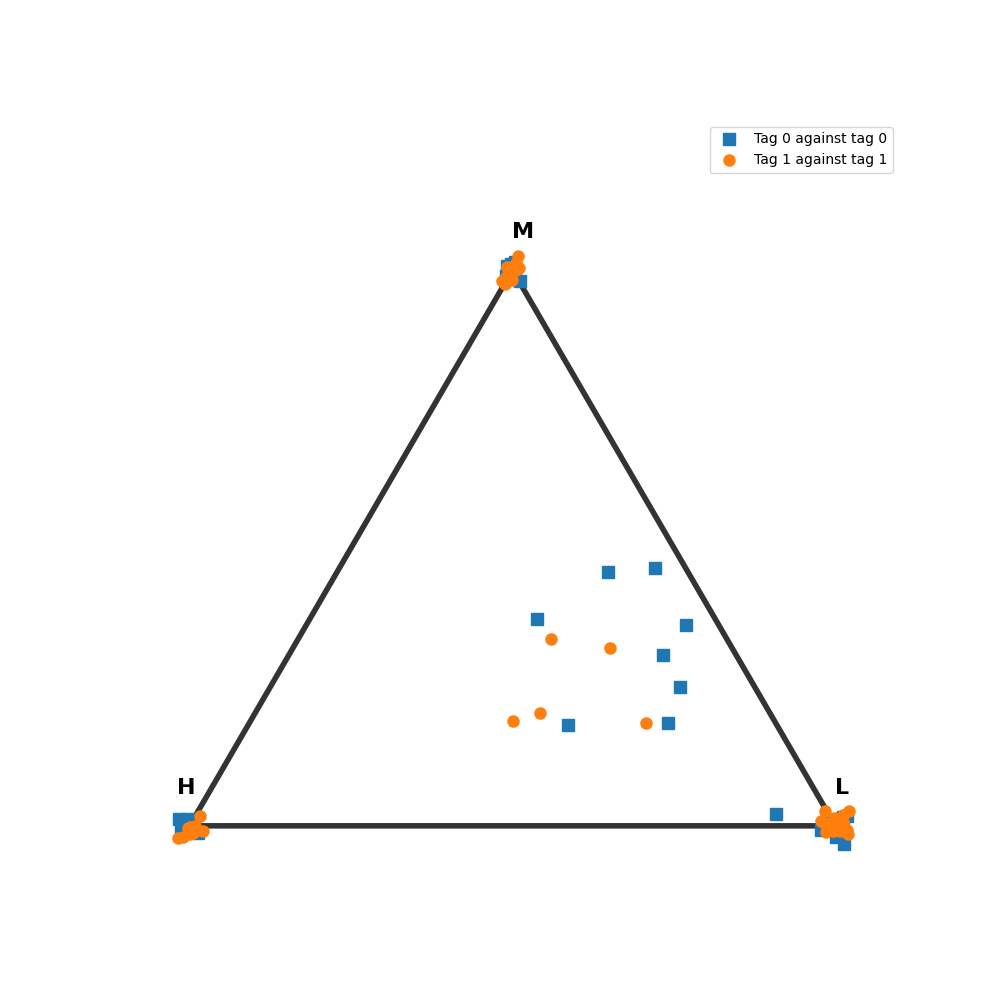
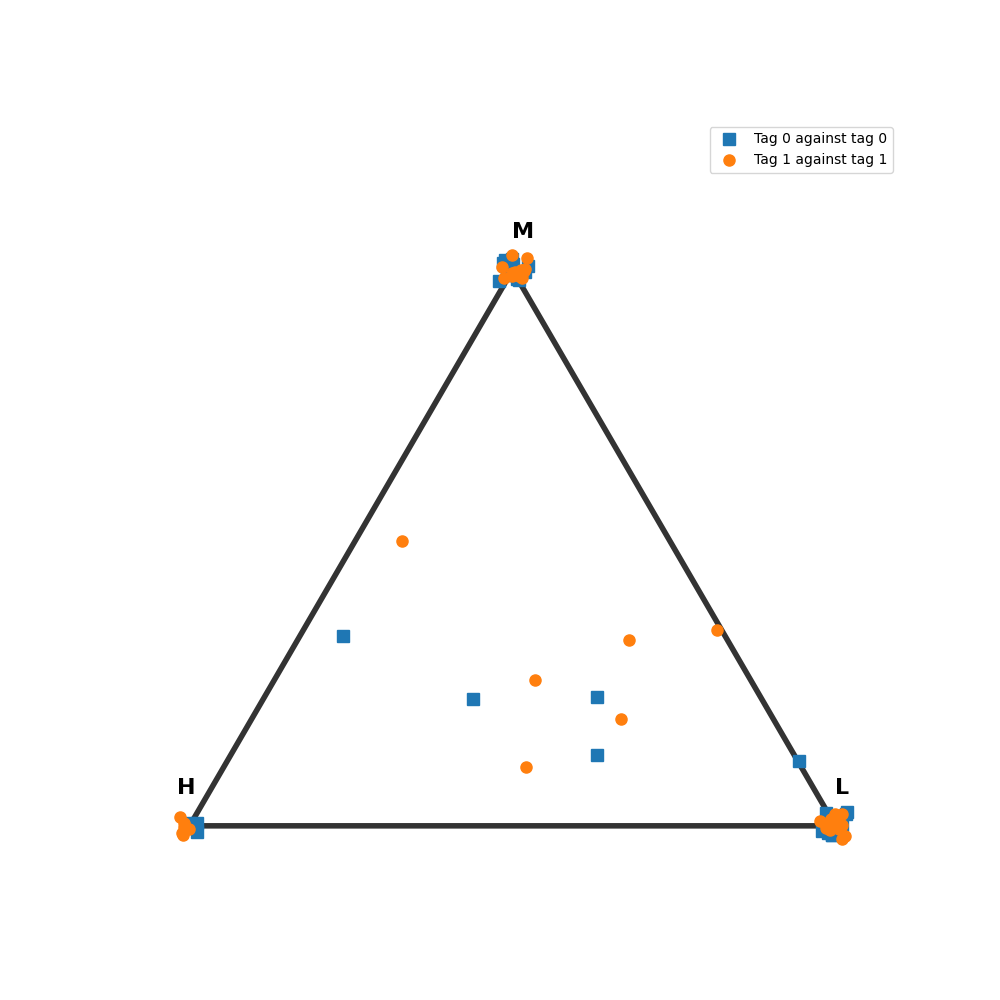
Merge branch 'main' of https://github.com/alemao161/ptuxiopote

diff --git a/0_run_Figures1-2.py b/0_run_Figures1-2.py
@@ -12,60 +12,38 @@ import networkx as nx
 ########################
 
 
-# Figure 1a (upper left)
-#n = 11
-#beta = 0.3
-#gamma = 0.1
-#N_tags = 1
-#J0 = [ 4, 4, 4 ]
-#N_epochs = 2000
-#num_runs = 1
-#lattice = "lattice_von_neumann"
-#node_size = 100
-
-# Figure 1b (upper right)
-#n = 11
-#beta = 1.0
-#gamma = 0.1
-#N_tags = 1
-#J0 = [ 4, 4, 4 ]
-#N_epochs = 2000
-#num_runs = 1
-#lattice = "lattice_von_neumann"
-#node_size = 100
-
-# Figure 1c (lower left)
-#n = 11
-#beta = 2.0
-#gamma = 0.1
-#N_tags = 1
-#J0 = [ 4, 1, 4 ]
-#N_epochs = 2000
-#num_runs = 1
-#lattice = "lattice_von_neumann"
-#node_size = 100
-
-# Figure 1d (lower right)
-#n = 11
-#beta = 2.0
-#gamma = 0.1
-#N_tags = 1
-#J0 = [ 4, 4, 4 ]
-#N_epochs = 2000
-#num_runs = 1
-#lattice = "lattice_von_neumann"
-#node_size = 100
-
-# Figure 2a (upper plot)
+# Figure 1
 n = 11
-beta = 2.0
+beta = 0.3
 gamma = 0.1
 N_tags = 1
-J0 = [ 1, 4, 1 ]
+J0 = [ 4, 1, 1 ]
 N_epochs = 2000
 num_runs = 1
 lattice = "lattice_von_neumann"
 node_size = 100
+
+# Figure 2
+#n = 11
+#beta = 1.0
+#gamma = 0.1
+#N_tags = 1
+#J0 = [ 1, 1, 4 ]
+#N_epochs = 2000
+#num_runs = 1
+#lattice = "lattice_von_neumann"
+#node_size = 100
+
+# Figure 3
+# n = 11
+# beta = 5.0
+# gamma = 0.1
+# N_tags = 1
+# J0 = [ 1, 1, 4 ]
+# N_epochs = 2000
+# num_runs = 1
+# lattice = "lattice_von_neumann"
+# node_size = 100
 
 G = gr.lattice_von_neumann(n)
 

diff --git a/4_run_formation_of_classes.py b/4_run_formation_of_classes.py
@@ -32,39 +32,16 @@ import networkx as nx
 # seed = 30
 
 n = 12
-beta = 1.2
+beta = 1.5
 gamma = 0.1
 N_tags = 2
-J0 = [ 4, 1, 1 ]
-# N_epochs    = 1000
-N_epochs = 500
+J0 = [ 1, 1, 4 ]
+N_epochs    = 1000
 num_runs = 4
 lattice = "lattice_von_neumann"
 node_size = 1000
 seed = 30
 
-# n = 12
-# beta = 1.5
-# gamma = 0.1
-# N_tags = 2
-# J0 = [ 4, 1, 4 ]
-# N_epochs    = 1000
-# # N_epochs = 2000
-# num_runs = 4
-# lattice = "lattice_von_neumann"
-# node_size = 1000
-# seed = 30
-
-# n           = 12
-# beta        = 1.0
-# gamma       = 0.1
-# N_tags      = 2
-# J0          = [ 4, 1, 4 ]
-# N_epochs    = 500
-# num_runs    = 10
-# lattice     = "lattice_von_neumann"
-# node_size   = 1000
-# seed        = 1
 
 G = gr.lattice_von_neumann(n)
 
@@ -75,9 +52,13 @@ game = bargain(G, beta=beta, gamma=gamma, J0=J0, folder=run_name, N_tags=N_tags,
 for k in range(num_runs):
     game.play(N_epochs=N_epochs)
     # game.plot_graph(node_size=node_size)
-    game.plot_statistics()
-    game.plot_simplex()
+    # game.plot_statistics()
+    # game.plot_simplex()
 
 game.plot_statistics()
+plt.pause(0.05)
 game.plot_simplex()
+plt.pause(0.05)
 game.plot_graph(node_size=node_size)
+plt.pause(0.05)
+

diff --git a/2_run_phase_beta.py b/2_run_phase_beta.py
@@ -8,7 +8,7 @@ import sys
 
 import pretty_errors
 
-# Ns = 60
+Ns = 60
 
 n = 11
 beta0 = 0.
@@ -30,11 +30,13 @@ LHM = np.zeros((3, Ns, N_tags))
 
 fig, ax = plt.subplots()
 
+###run sim for diff betas###
 for k in range(Ns):
     print(f'Running {k} out of {Ns} betas...')
 
     game = bargain(G, beta=beta[k], J0=J0, N_tags=N_tags)
 
+    ###Set epochs num based on curr iter###
     if k == 0:
         N_per_epoch = int(5e5)
     else:
@@ -47,10 +49,13 @@ for k in range(Ns):
     game.copy_data_to_graph()
     G = game.G
 
+    ###Calc % of diff actions and store in LHM array###
     LHM[0, k, :] = np.sum(game.actions == 0) / N_nodes
     LHM[1, k, :] = np.sum(game.actions == 1) / N_nodes
     LHM[2, k, :] = np.sum(game.actions == 2) / N_nodes
 
+
+    ###update plot###
     plt.figure(fig.number)
     ax.clear()
     ax.plot(beta, LHM[0, :, :], 'ro-', label='Low', markersize=3)
@@ -62,6 +67,8 @@ for k in range(Ns):
     plt.pause(0.005)
     plt.show(block=False)
 
+
+###save phase diagram data to files###
 for tag in range(N_tags):
     name = 'phase_beta_tag_' + str(tag) + '.txt'
     z = (beta[:, np.newaxis], np.squeeze(LHM[:, :, tag]).T)

diff --git a/1_run_Figures3.py b/1_run_Figures3.py
@@ -7,14 +7,14 @@ import numpy as np
 import networkx as nx
 
 ########################
-# Figure 3
+# Figure 4
 ########################
 
 n = 6
 beta = 2.0
 gamma = 0.1
 N_tags = 1
-J0 = [ 4, 4, 4 ]
+J0 = [ 1, 1, 4 ]
 N_epochs = 2000
 num_runs = 1
 lattice = "lattice_von_neumann"

diff --git a/games.py b/games.py
@@ -85,7 +85,7 @@ class bargain:
         G,
         beta=1.,
         gamma=0.1,
-        lamda=0.2,
+        lamda=0.45,
         seed=None,
         J0=[ 4, 4, 4 ],
         payoff=None,
